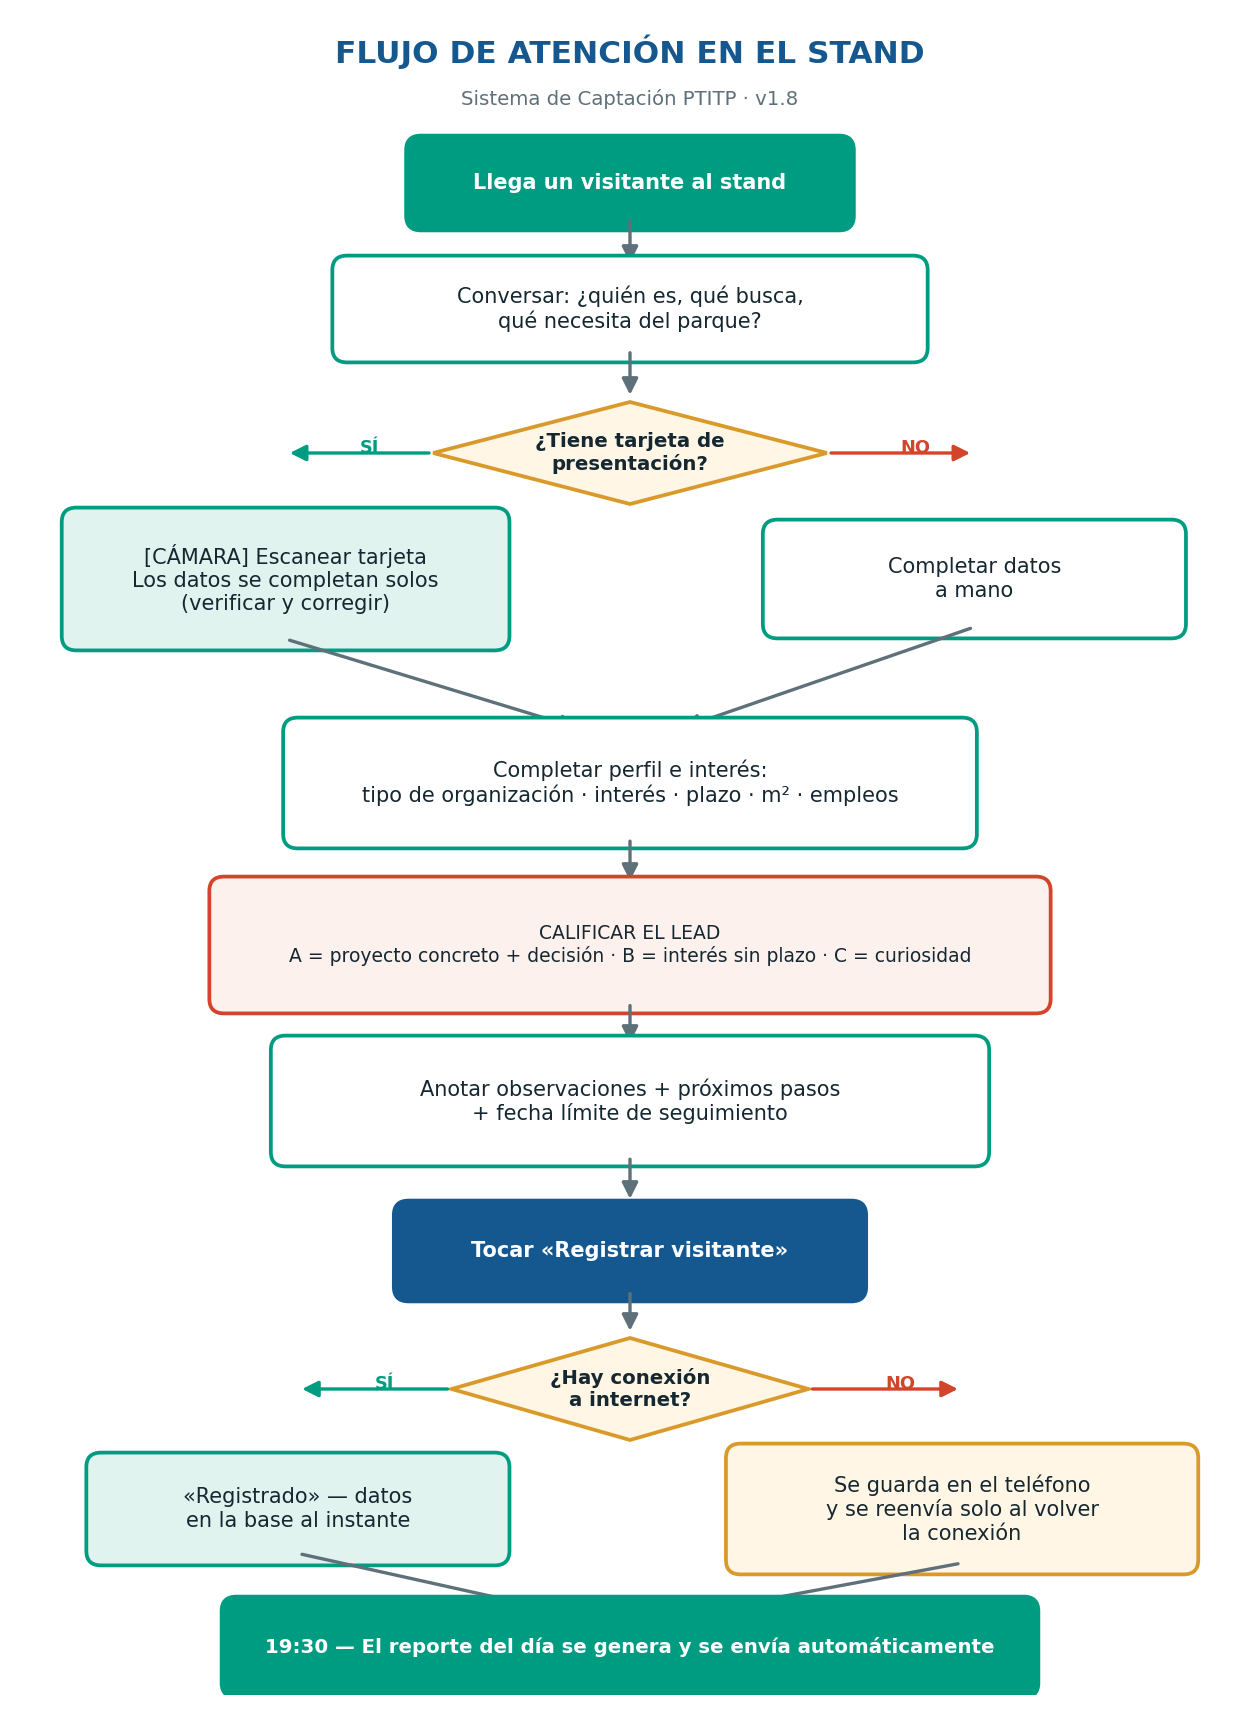
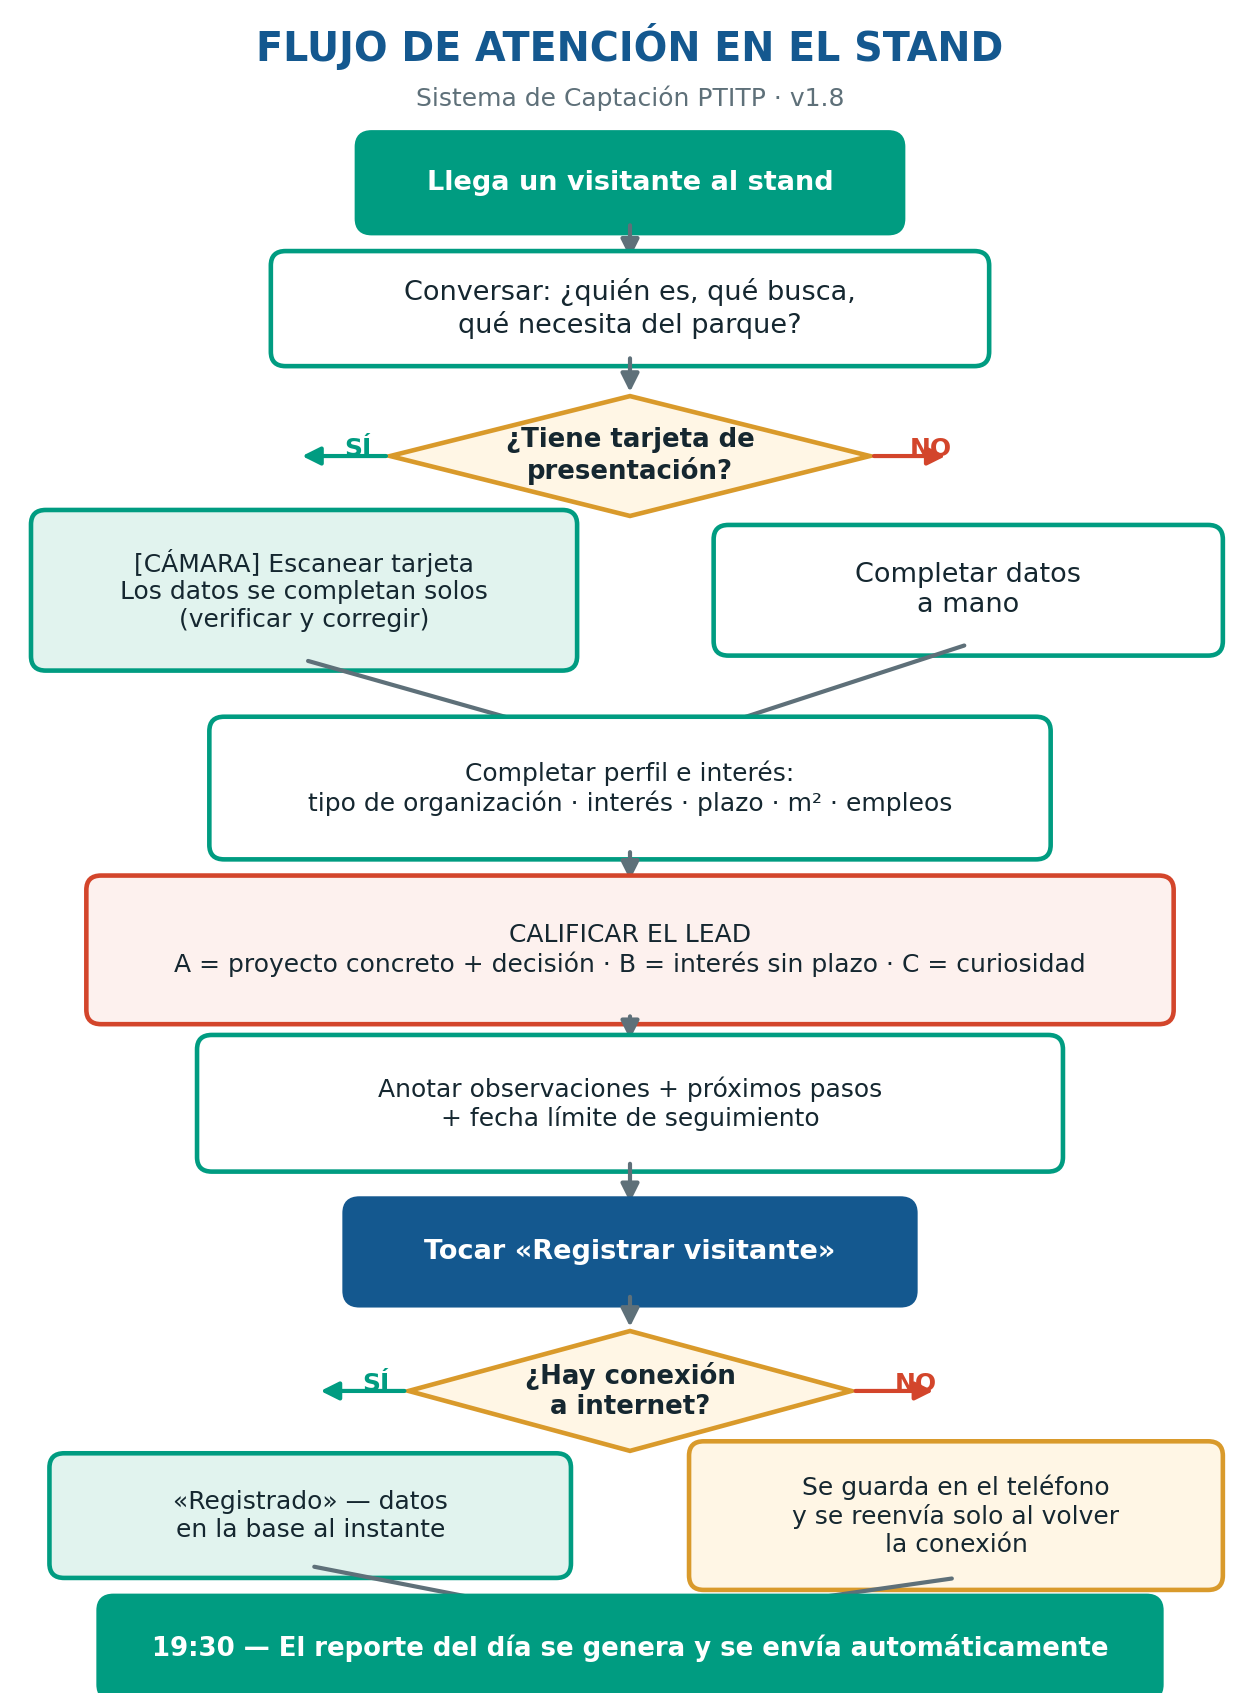
補推 Code_CRM.gs v4 種子與手冊原始檔

Changed region(s): [[0.0, 0.0, 0.9905, 0.993], [0.9286, 0.5275, 0.9595, 0.5896], [0.8976, 0.4965, 0.9286, 0.5275]]

diff --git a/test_backend5.js b/test_backend5.js
@@ -1,0 +1,67 @@
+// 排程守門測試：展期起訖 + 寄送時鐘 + 同日去重
+const fs=require('fs');
+class MockSheet{constructor(n){this.name=n;this.rows=[]}getLastRow(){return this.rows.length}appendRow(r){this.rows.push(r.slice());return this}getRange(a,b){const s=this;return{setValue(v){s.rows[a-1][b-1]=v},setFontWeight(){return{setBackground:()=>({setFontColor:()=>({})})}},}}setFrozenRows(){}getDataRange(){const s=this;return{getValues:()=>s.rows.map(r=>r.slice())}}}
+const sheets={};const ss={getSheetByName:n=>sheets[n]||null,insertSheet:n=>(sheets[n]=new MockSheet(n))};
+global.SpreadsheetApp={getActiveSpreadsheet:()=>ss,getUi:()=>({createMenu:()=>({addItem(){return this},addToUi(){}})})};
+let HORA=19, HOY='2026-07-10';
+global.Utilities={
+  formatDate:(d,tz,fmt)=>{ if(fmt==='H')return String(HORA); if(fmt==='yyyy-MM-dd')return (d instanceof Date && d._s)?d._s:HOY; if(fmt.includes('HH'))return HOY+' '+String(HORA).padStart(2,'0')+':00:00'; return HOY;},
+  newBlob:(h)=>({getAs:()=>({setName(x){return this},getBytes:()=>[1],getName:()=>'x'})}),
+  base64Encode:()=>'B'};
+const mails=[];global.MailApp={sendEmail:o=>mails.push(o)};
+global.LockService={getScriptLock:()=>({tryLock:()=>true,releaseLock:()=>{}})};
+global.ContentService={MimeType:{JSON:'json'},createTextOutput:t=>({_text:t,setMimeType(){return this}})};
+global.HtmlService={createHtmlOutput:h=>({setTitle(){return this}})};
+const trigs=[];
+global.ScriptApp={getProjectTriggers:()=>[],deleteTrigger:()=>{},newTrigger:f=>({timeBased(){return this},everyHours(h){trigs.push([f,'everyHours',h]);return this},everyDays(){return this},atHour(){return this},nearMinute(){return this},create(){}})};
+global.Logger={log:()=>{}};
+const props={};
+global.PropertiesService={getScriptProperties:()=>({getProperty:k=>props[k]||null,setProperty:(k,v)=>props[k]=v})};
+global.DriveApp={getFoldersByName:()=>({hasNext:()=>false}),createFolder:()=>({})};
+global.UrlFetchApp={fetch:()=>({})};
+eval(fs.readFileSync('Code.gs','utf8'));
+
+let pass=0,fail=0;const check=(c,n)=>{c?(pass++,console.log('✅',n)):(fail++,console.log('❌',n))};
+
+// 準備：Leads 表頭 + Config
+setup();
+sheets['Config'].rows[0][1]='[email redacted]';
+check(sheets['Config'].rows.length===4,'G1 setup 建立 4 個 Config 參數列');
+check(String(sheets['Config'].rows[3][1])==='19','G1 預設寄送時鐘 19');
+
+// G2: 未設定日期 → 每天照寄（向下相容），時鐘符合才寄
+sheets['Config'].rows[1][1]=''; sheets['Config'].rows[2][1]='';
+HORA=18;
+check(reporteProgramado()==='hora distinta'&&mails.length===0,'G2 時鐘不符不寄');
+HORA=19;
+check(reporteProgramado()==='enviado'&&mails.length===1,'G2 日期留空+時鐘符合 → 寄出');
+check(reporteProgramado()==='ya enviado hoy'&&mails.length===1,'G2 同日重跑不重寄');
+
+// G3: 展期閘門
+delete props['ultimo_reporte_auto'];
+sheets['Config'].rows[1][1]='2026-07-15'; sheets['Config'].rows[2][1]='2026-07-18';
+check(reporteProgramado()==='antes del rango'&&mails.length===1,'G3 展期未開始不寄');
+HOY='2026-07-20';
+check(reporteProgramado()==='después del rango','G3 展期結束後不寄');
+HOY='2026-07-16';
+check(reporteProgramado()==='enviado'&&mails.length===2,'G3 展期內指定時鐘寄出');
+
+// G4: 日期儲存格為 Date 物件（Sheet 常見情況）
+delete props['ultimo_reporte_auto'];
+const d1=new Date();d1._s='2026-07-16'; const d2=new Date();d2._s='2026-07-17';
+sheets['Config'].rows[1][1]=d1; sheets['Config'].rows[2][1]=d2;
+check(reporteProgramado()==='enviado','G4 Date 物件日期正規化後照常判斷');
+
+// G5: 改時鐘即生效
+delete props['ultimo_reporte_auto'];
+sheets['Config'].rows[3][1]=21; HORA=19;
+check(reporteProgramado()==='hora distinta','G5 改成 21 點後 19 點不寄');
+HORA=21;
+check(reporteProgramado()==='enviado','G5 21 點寄出');
+
+// G6: 觸發器改為每小時
+crearTriggerDiario();
+check(trigs.length===1&&trigs[0][0]==='reporteProgramado'&&trigs[0][1]==='everyHours'&&trigs[0][2]===1,'G6 觸發器 = reporteProgramado 每小時');
+
+console.log(`\n═══ 排程守門測試: ${pass} 通過 / ${fail} 失敗 ═══`);
+process.exit(fail?1:0);

diff --git a/test_crm3.js b/test_crm3.js
@@ -26,35 +26,39 @@ let pass=0,fail=0;const check=(c,n)=>{c?(pass++,console.log('✅',n)):(fail++,co
 
 setupCRM();
 const lot=crmSS._sheets['Lotes'], ocu=crmSS._sheets['Ocupaciones'];
-check(lot.rows.length>30,'F1 地籍種子 30+ 筆（含五類用途）');
-check(ocu.rows.length===10,'F1 租用種子 9 筆');
-check(lot.rows[0].length===11&&lot.rows[0][9]==='Estado (derivado)','F1 推導欄存在');
+check(lot.rows.length===92,'F1 地籍種子 91 筆（v4）');
+check(ocu.rows.length===11,'F1 租用種子 10 筆');
+check(lot.rows.filter(r=>r[2]==='industrial').length===82,'F1 工業地塊 82 筆');
 check(lot.rows.some(r=>r[2]==='área verde')&&lot.rows.some(r=>r[2]==='infraestructura')&&lot.rows.some(r=>r[2]==='administrativo PSC')&&lot.rows.some(r=>r[2]==='reserva'),'F1 五類用途齊備');
-check(String(lot.rows.find(r=>r[0]==='SUR-01')[4]).startsWith('img:'),'F1 主要地塊含影像相對座標');
+check(lot.rows.find(r=>r[0]==='VII-11')[3]===4134,'F1 VII-11 地籍 4.134');
+const xvi=lot.rows.filter(r=>r[1]==='XVI');
+check(xvi.length===4&&Math.round(xvi.reduce((s,r)=>s+r[3],0)*100)/100===21447.25,'F1 XVI 四拆且合計 21.447,25 分毫不差');
+check(lot.rows.find(r=>r[0]==='XVI-C')[3]===6012,'F1 MB 第二保留塊更正為 6.012');
+check(lot.rows.find(r=>r[0]==='INFRA-RET')[3]===4200,'F1 蓄洪池 4.200');
+check(lot.rows.filter(r=>r[1]==='XI').length===12,'F1 XI 拆為 12 個地塊');
 
 // F2: 推導狀態
 actualizarLotes();
 const est=id=>lot.rows.find(r=>r[0]===id)[9];
-check(est('TELECEL-01')==='ocupado','F2 整塊 alquilado → ocupado');
-check(est('SUR-01')==='parcial','F2 部分租用 → parcial');
-check(est('XIV-05')==='reservado'&&est('XV-06')==='reservado','F2 Julong 整塊保留 → reservado');
-check(est('XIII-06')==='disponible','F2 無人引用 → disponible');
-check(est('VERDE-01')==='—'&&est('INFRA-PTAR')==='—','F2 非工業用途 → —');
-check(lot.rows.find(r=>r[0]==='TELECEL-01')[10]===2700,'F2 整塊佔用回填 m²');
+check(est('TELECEL-01')==='ocupado'&&est('VII-12')==='ocupado','F2 整塊 alquilado → ocupado');
+check(est('XII-05')==='parcial','F2 Gauss 部分租用 → parcial（餘 1.181,15 可租）');
+check(est('XI-01')==='reservado'&&est('XI-12')==='reservado'&&lot.rows.filter(r=>r[1]==='XI'&&r[9]==='reservado').length===12,'F2 ACELON 12 塊全 reservado');
+check(est('VI-01')==='disponible'&&est('X-01')==='disponible','F2 無人引用 → disponible');
+check(est('XIV')==='—'&&est('XIII')==='—','F2 非工業用途 → —');
 
-// F3: 跨區租用（Cintas 跨 SUR-04 與 SUR-06）
-check(est('SUR-04')==='parcial'&&est('SUR-06')==='parcial','F3 跨區租用兩塊皆 parcial');
+// F3: 跨區/部分租用
+check(est('VII-11')==='ocupado'&&est('IX-01')==='ocupado','F3 Cintas 兩廠房（VII-11 + IX-01）皆 ocupado');
+check(est('XVI-A')==='ocupado'&&est('XVI-B')==='reservado'&&est('XVI-C')==='reservado'&&est('XVI-D')==='disponible','F3 XVI 四組成狀態各自正確');
+check(est('XV')==='reservado','F3 Master Bus 保留 XV');
 
 // F4: 雙口徑
-ocu.rows[3][5]=8000; // K y K 簽約 8000 m²（跨/部分）
-ocu.rows[7][5]=12000; // Master Bus 保留 12000
 const d=resumenDisponibilidad();
-const telecel=2700;
-check(d.catTotal>90000,'F4 工業地籍總量合理（>9萬m²）');
-check(d.catOcupado>=telecel+2120*2+4134*2,'F4 地籍口徑含整塊佔用（TELECEL+Julong 4塊）');
-check(d.catTotal-d.catOcupado===d.catDisponible,'F4 可用=總量-佔用');
-check(d.lotesParciales>=3,'F4 parcial 地塊計數');
-check(d.contrato.alquilado===2700+8000&&d.contrato.reservado===12000,'F4 合約口徑依類型加總');
+check(Math.round(d.catTotal*100)/100===272516.25,'F4 工業地籍總量 272.516,25 m²');
+check(Math.round(d.catOcupado)===Math.round(4134+4134+4524+4134+2120+33496+15449+2700+4178+6012+340),'F4 地籍口徑=整塊佔用 81.221 m²');
+check(d.catTotal-d.catOcupado===d.catDisponible,'F4 可用=總量-佔用（191.295,25 介於兩份官方口徑之間）');
+check(d.lotesParciales===1,'F4 parcial = 1（僅 XII-05 Gauss）');
+check(Math.round(d.contrato.alquilado*100)/100===Math.round((340[phone redacted]+4134+4134+2120+8658+2700)*100)/100,'F4 合約口徑 alquilado 23.704,85');
+check(d.contrato.reservado===33496+21461+4178,'F4 合約口徑 reservado 59.135');
 
 // F5: 週報
 crmSS._sheets['Config'].rows.find(r=>r[0]==='Emails resumen diario')[1]='[email redacted]';

diff --git a/manual_es.html b/manual_es.html
@@ -2,31 +2,35 @@
 <html lang="es"><head><meta charset="UTF-8">
 <style>
   @page { size: A4; margin: 0; }
-  body{font-family:Helvetica,Arial,sans-serif;color:#152730;margin:0;font-size:11px;line-height:1.5}
-  .pag{padding:46px 52px;page-break-after:always}
-  .pag:last-child{page-break-after:auto}
-  h1{color:#14588F;font-size:24px;margin:0 0 4px}
-  h2{color:#14588F;font-size:15px;margin:20px 0 6px;border-left:6px solid #009C81;padding-left:9px;text-transform:uppercase;letter-spacing:1px}
-  h3{color:#009C81;font-size:12px;margin:12px 0 4px}
+  body{font-family:Helvetica,Arial,sans-serif;color:#152730;margin:0;font-size:12.5pt;line-height:1.55}
+  .pag{padding:6px 44px 2px}
+  h2{page-break-after:avoid}
+  h3{page-break-after:avoid}
+  .paso,.aviso,.ok,.url{page-break-inside:avoid}
+  tr{page-break-inside:avoid}
+  img.flujo{page-break-inside:avoid}
+  h1{color:#14588F;font-size:26pt;margin:0 0 4px}
+  h2{color:#14588F;font-size:16pt;margin:18px 0 8px;border-left:7px solid #009C81;padding-left:10px;text-transform:uppercase;letter-spacing:1px}
+  h3{color:#009C81;font-size:13.5pt;margin:14px 0 5px}
   p{margin:5px 0}
   .banda{height:8px;background:#009C81;border-bottom:4px solid #14588F}
   .cab{background:#009C81;color:#fff;padding:22px 52px}
   .cab h1{color:#fff}
   .cab p{color:#DFF3EE;font-size:11px}
-  table{border-collapse:collapse;width:100%;font-size:10.5px;margin:6px 0}
-  th{background:#14588F;color:#fff;padding:5px 8px;text-align:left}
-  td{border:1px solid #DCE7E3;padding:5px 8px;vertical-align:top}
-  .paso{border:1px solid #DCE7E3;border-left:5px solid #009C81;padding:8px 12px;margin:7px 0}
-  .paso b.n{display:inline-block;background:#009C81;color:#fff;border-radius:50%;width:18px;height:18px;text-align:center;line-height:18px;font-size:10px;margin-right:6px}
-  .aviso{background:#FFF6E5;border:1px solid #D99A2B;border-left:5px solid #D99A2B;padding:8px 12px;margin:8px 0}
-  .ok{background:#E1F3EE;border:1px solid #009C81;border-left:5px solid #009C81;padding:8px 12px;margin:8px 0}
+  table{border-collapse:collapse;width:100%;font-size:11.5pt;margin:8px 0}
+  th{background:#14588F;color:#fff;padding:7px 10px;text-align:left}
+  td{border:1px solid #DCE7E3;padding:7px 10px;vertical-align:top}
+  .paso{border:1px solid #DCE7E3;border-left:6px solid #009C81;padding:10px 14px;margin:9px 0}
+  .paso b.n{display:inline-block;background:#009C81;color:#fff;border-radius:50%;width:24px;height:24px;text-align:center;line-height:24px;font-size:12pt;margin-right:8px}
+  .aviso{background:#FFF6E5;border:1px solid #D99A2B;border-left:6px solid #D99A2B;padding:10px 14px;margin:10px 0}
+  .ok{background:#E1F3EE;border:1px solid #009C81;border-left:6px solid #009C81;padding:10px 14px;margin:10px 0}
   .rojo{color:#D3452B;font-weight:bold}
   .calA{color:#D3452B;font-weight:bold}.calB{color:#D99A2B;font-weight:bold}.calC{color:#5E7079;font-weight:bold}
-  img.flujo{width:100%;max-width:640px;display:block;margin:8px auto;border:1px solid #DCE7E3}
+  img.flujo{width:100%;display:block;margin:10px auto;border:1px solid #DCE7E3}
   .pie{position:running(footer);}
-  .url{background:#F2F6F5;border:1px dashed #14588F;padding:8px 12px;font-family:monospace;font-size:11px;color:#14588F;text-align:center;margin:8px 0}
+  .url{background:#F2F6F5;border:1px dashed #14588F;padding:10px 14px;font-family:monospace;font-size:13pt;color:#14588F;text-align:center;margin:10px 0}
   ul{margin:4px 0;padding-left:18px}
-  li{margin:3px 0}
+  li{margin:5px 0}
   .dos{width:100%}
   .dos td{border:0;padding:0 8px 0 0;width:50%}
 </style></head><body>
@@ -37,7 +41,7 @@
   <p>Manual de uso para promotores · Versión 1.8 · Julio 2026</p>
 </div>
 <div class="banda"></div>
-<div class="pag">
+<div class="pag" style="padding-top:16px">
   <p style="margin-top:14px"><b>Parque Tecnológico Inteligente Taiwán-Paraguay (PTITP)</b><br>
   Minga Guazú, Alto Paraná, Paraguay</p>
 
@@ -74,7 +78,7 @@
 <!-- ═══ FLUJO ═══ -->
 <div class="pag">
   <h2>Flujo de atención en el stand</h2>
-  <img class="flujo" src="flujo_stand.png" style="max-width:560px">
+  <img class="flujo" src="flujo_stand.png">
 </div>
 
 <!-- ═══ REGISTRO PASO A PASO ═══ -->
@@ -133,7 +137,7 @@
 <!-- ═══ REPORTES ═══ -->
 <div class="pag">
   <h2>Reportes (sección «supervisión»)</h2>
-  <img class="flujo" src="flujo_reportes.png" style="max-width:600px">
+  <img class="flujo" src="flujo_reportes.png">
 
   <h3>Ver reportes en pantalla</h3>
   <p><b>«Ver reporte de hoy»</b> abre el reporte del día; <b>«Ver reporte acumulado del evento»</b> abre el

diff --git a/test_backend3.js b/test_backend3.js
@@ -15,7 +15,7 @@ eval(fs.readFileSync('Code.gs','utf8'));
 let pass=0,fail=0;const check=(c,n)=>{c?(pass++,console.log('✅',n)):(fail++,console.log('❌',n))};
 
 setup();
-check(sheets['Config']&&sheets['Config'].rows.length===1,'C1 setup 建立 Config 分頁');
+check(sheets['Config']&&sheets['Config'].rows.length===4,'C1 setup 建立 Config 分頁（含排程參數）');
 
 // email 驗證
 check(_validarEmails('[email redacted], [email redacted]; malo, c@@z')==='[email redacted],[email redacted]','C2 _validarEmails 清洗混合輸入');